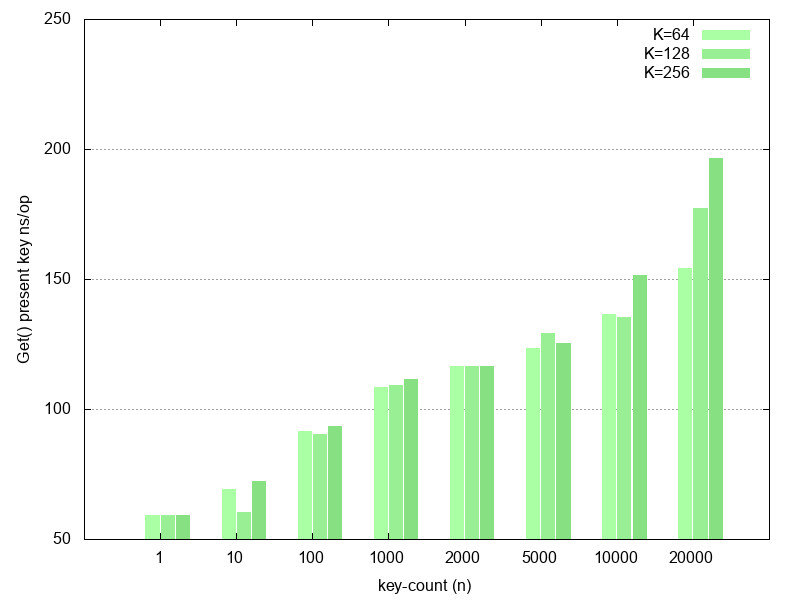
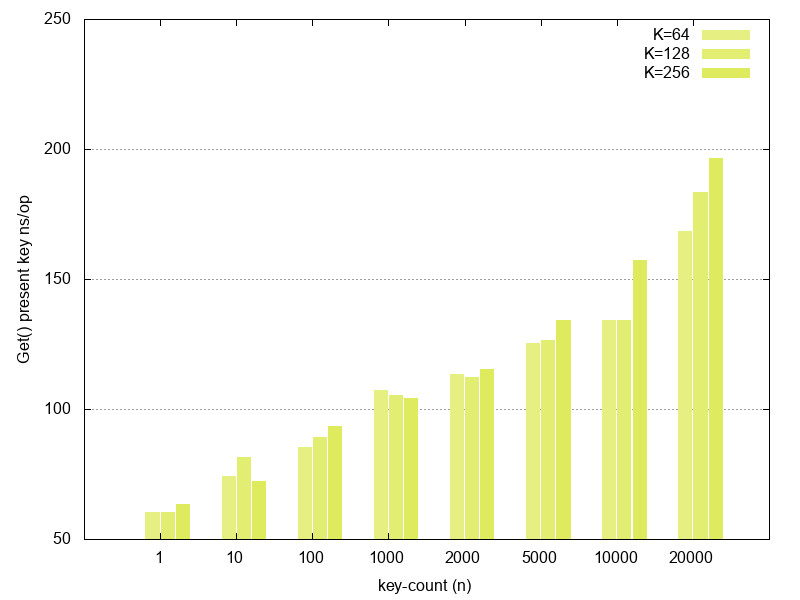
doc: trie: bench present key get and absent key get

diff --git a/benchhelper/plot.go b/benchhelper/plot.go
@@ -29,6 +29,7 @@ set grid ytics;
 var LineStyles = struct {
 	Green  string
 	Yellow string
+	Orange string
 }{
 	Green: `
 set style line 1 lc rgb '#aaffa5' pt 1 ps 1 lt 1 lw 2;
@@ -41,16 +42,24 @@ set style line 7 lc rgb '#42a33d' pt 6 ps 1 lt 1 lw 2;
 set style line 8 lc rgb '#31942c' pt 6 ps 1 lt 1 lw 2;
 `,
 	Yellow: `
-set style line 1  lc rgb '#fffc85' pt 1 ps 1 lt 1 lw 2;
-set style line 2  lc rgb '#fdf476' pt 6 ps 1 lt 1 lw 2;
-set style line 3  lc rgb '#fbed67' pt 6 ps 1 lt 1 lw 2;
-set style line 4  lc rgb '#f8e559' pt 6 ps 1 lt 1 lw 2;
-set style line 5  lc rgb '#f6dd4a' pt 6 ps 1 lt 1 lw 2;
-set style line 6  lc rgb '#f4d63b' pt 6 ps 1 lt 1 lw 2;
-set style line 7  lc rgb '#f2ce2c' pt 6 ps 1 lt 1 lw 2;
-set style line 8  lc rgb '#efc61e' pt 6 ps 1 lt 1 lw 2;
-set style line 9  lc rgb '#edbf0f' pt 6 ps 1 lt 1 lw 2;
-set style line 10 lc rgb '#ebb700' pt 6 ps 1 lt 1 lw 2;
+set style line 1  lc rgb '#e6f082' pt 1 ps 1 lt 1 lw 2;
+set style line 2  lc rgb '#e2ee71' pt 6 ps 1 lt 1 lw 2;
+set style line 3  lc rgb '#dfeb5f' pt 6 ps 1 lt 1 lw 2;
+set style line 4  lc rgb '#dbe94e' pt 6 ps 1 lt 1 lw 2;
+set style line 5  lc rgb '#d8e73c' pt 6 ps 1 lt 1 lw 2;
+set style line 6  lc rgb '#d4e52b' pt 6 ps 1 lt 1 lw 2;
+`,
+	Orange: `
+set style line 1  lc rgb '#ffdd00' pt 1 ps 1 lt 1 lw 2;
+set style line 2  lc rgb '#f9d000' pt 6 ps 1 lt 1 lw 2;
+set style line 3  lc rgb '#f4c300' pt 6 ps 1 lt 1 lw 2;
+set style line 4  lc rgb '#eeb500' pt 6 ps 1 lt 1 lw 2;
+set style line 5  lc rgb '#e8a800' pt 6 ps 1 lt 1 lw 2;
+set style line 6  lc rgb '#e39b00' pt 6 ps 1 lt 1 lw 2;
+set style line 7  lc rgb '#dd8e00' pt 6 ps 1 lt 1 lw 2;
+set style line 8  lc rgb '#d78000' pt 6 ps 1 lt 1 lw 2;
+set style line 9  lc rgb '#d27300' pt 6 ps 1 lt 1 lw 2;
+set style line 10 lc rgb '#cc6600' pt 6 ps 1 lt 1 lw 2;
 `,
 }
 
@@ -99,7 +108,7 @@ func Fplot(fn, script string) {
 
 	err = gp.Wait()
 	if err != nil {
-		fmt.Println(stdout.String())
+		// fmt.Println(stdout.String())
 		fmt.Println(stderr.String())
 		panic(err)
 	}

diff --git a/tools/app/trie_search_cost.go b/tools/app/trie_search_cost.go
@@ -30,7 +30,7 @@ set xlabel 'key-count (n)'
 set ylabel 'Get() present key ns/op' offset 1,0
 `
 	script += benchhelper.Fformat.JPGHistogramMid
-	script += benchhelper.LineStyles.Green
+	script += benchhelper.LineStyles.Yellow
 	script += benchhelper.Plot.Histogram
 
 	benchhelper.Fplot("bench_get_present.jpg", script)
@@ -47,12 +47,12 @@ func getAbsent() {
 
 	script := `
 fn = "bench_get_absent.data"
-set yr [50:250]
+set yr [50:300]
 set xlabel 'key-count (n)'
 set ylabel 'Get() present key ns/op' offset 1,0
 `
 	script += benchhelper.Fformat.JPGHistogramMid
-	script += benchhelper.LineStyles.Green
+	script += benchhelper.LineStyles.Orange
 	script += benchhelper.Plot.Histogram
 
 	benchhelper.Fplot("bench_get_absent.jpg", script)

diff --git a/trie/benchmark/benchmark.go b/trie/benchmark/benchmark.go
@@ -253,13 +253,13 @@ func getTestKV(ct *trie.SlimTrie, key string) []byte {
 
 	eq := ct.Get(key)
 	if eq == nil {
-		return nil
+		return []byte{0}
 	}
 
 	val := eq.(*TrieBenchKV)
 
 	if strings.Compare(val.Key, key) != 0 {
-		return nil
+		return []byte{0}
 	}
 
 	return val.Val

diff --git a/tools/app/bench_get_present.md b/tools/app/bench_get_present.md
@@ -1,10 +1,10 @@
 | KEYCOUNT | K64 | K128 | K256 |
 |----------|-----|------|------|
-|        1 |  59 |   59 |   59 |
-|       10 |  69 |   60 |   72 |
-|      100 |  91 |   90 |   93 |
-|     1000 | 108 |  109 |  111 |
-|     2000 | 116 |  116 |  116 |
-|     5000 | 123 |  129 |  125 |
-|    10000 | 136 |  135 |  151 |
-|    20000 | 154 |  177 |  196 |
+|        1 |  60 |   60 |   63 |
+|       10 |  74 |   81 |   72 |
+|      100 |  85 |   89 |   93 |
+|     1000 | 107 |  105 |  104 |
+|     2000 | 113 |  112 |  115 |
+|     5000 | 125 |  126 |  134 |
+|    10000 | 134 |  134 |  157 |
+|    20000 | 168 |  183 |  196 |

diff --git a/tools/app/bench_get_absent.md b/tools/app/bench_get_absent.md
@@ -1,0 +1,10 @@
+| KEYCOUNT | K64 | K128 | K256 |
+|----------|-----|------|------|
+|        1 |  36 |   36 |   35 |
+|       10 |  52 |   62 |   58 |
+|      100 |  85 |   88 |   87 |
+|     1000 | 103 |  110 |  113 |
+|     2000 | 123 |  122 |  122 |
+|     5000 | 134 |  130 |  133 |
+|    10000 | 130 |  144 |  161 |
+|    20000 | 197 |  214 |  232 |
